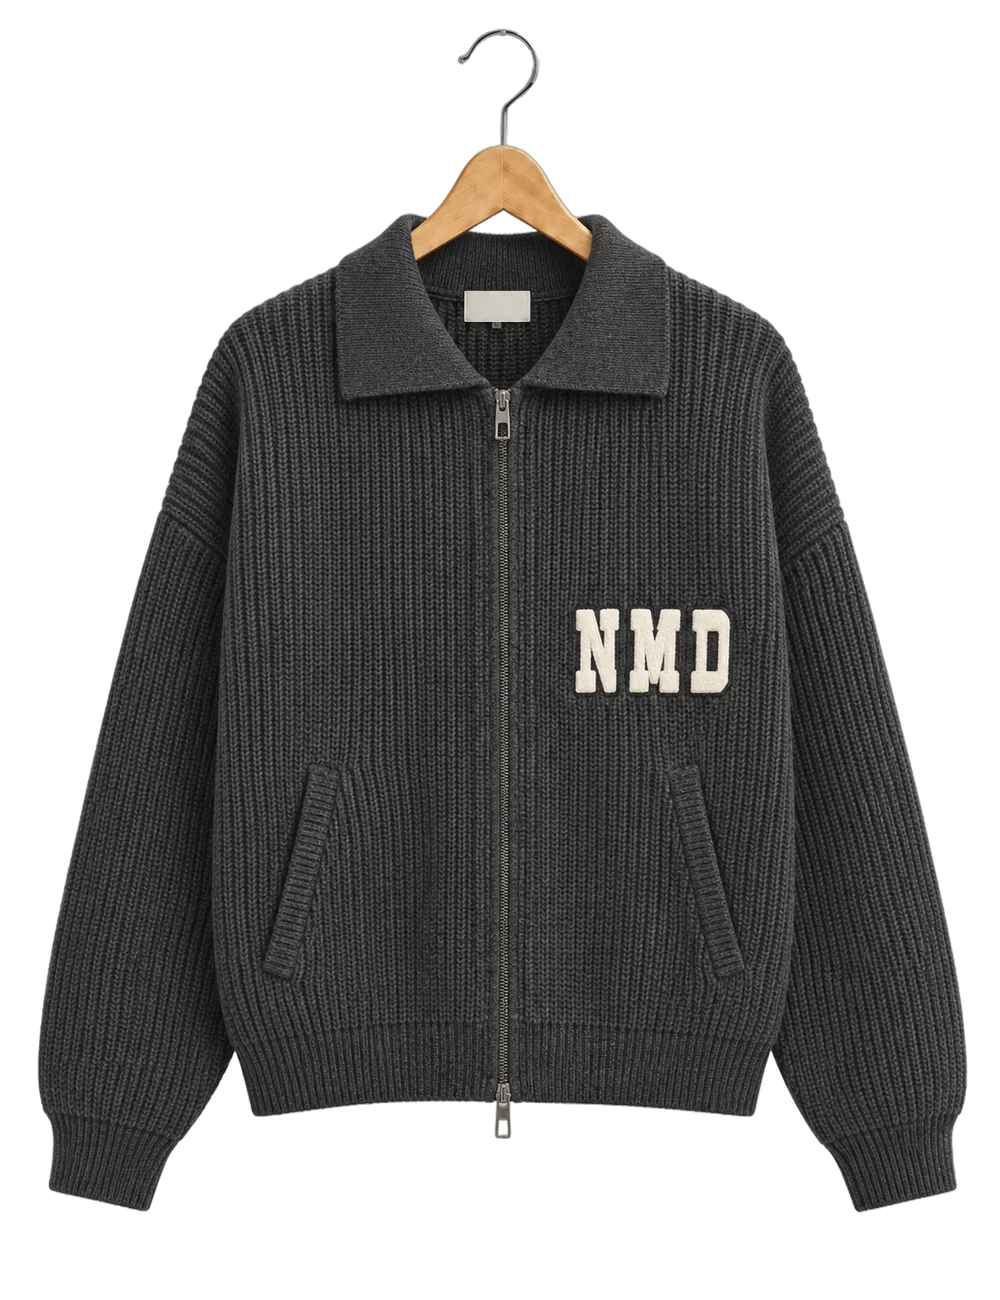
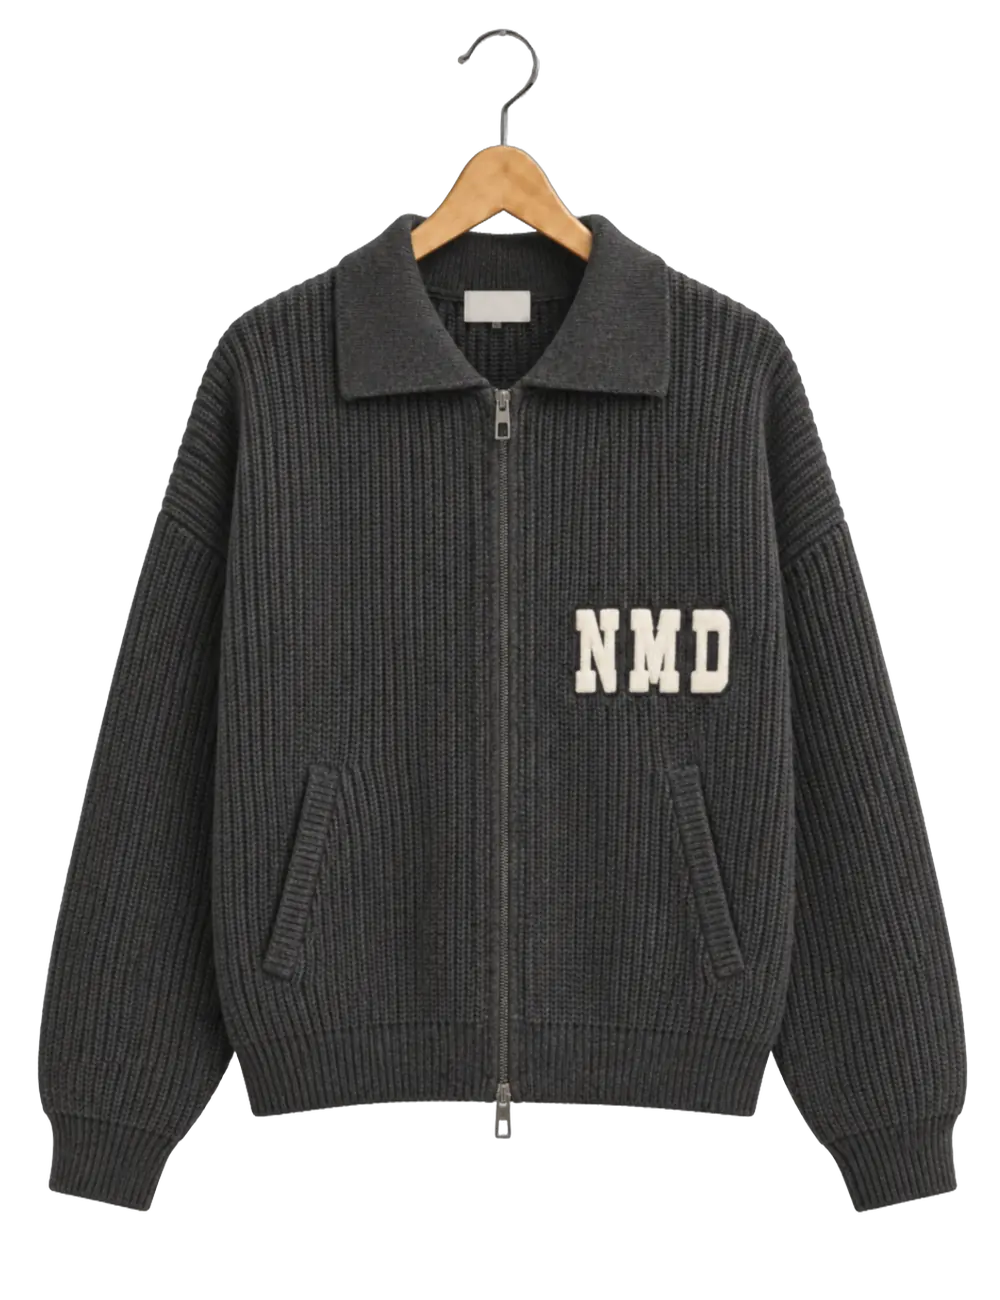
Punto grueso: suavizado y calidad por prenda para que la chamarra no pase el límite de peso
Claude-Session: https://claude.ai/code/session_01MAyo22dyL4XR5G33iWNR8Q

Changed region(s): [[0.496, 0.3077, 0.527, 0.8308], [0.589, 0.4615, 0.62, 0.5231], [0.651, 0.4615, 0.682, 0.4923]]

diff --git a/tools/procesar_assets.py b/tools/procesar_assets.py
@@ -138,13 +138,27 @@ def main():
             _, t, b = hook_anchor(arr[:, :, 3])
             return place(arr, height / (b - t))
 
+        # Telas con textura muy fina (punto grueso) pesan el doble en WebP: un
+        # suavizado leve ("suavizado", radio en px) y "calidad" las dejan en el
+        # peso de las demás sin que se note al tamaño en que se muestran.
+        blur = item.get("suavizado", 0)
+        quality = item.get("calidad", 86)
+
+        def save(canvas, path):
+            if blur:
+                from PIL import ImageFilter
+                alpha = canvas.getchannel("A")
+                canvas = canvas.convert("RGB").filter(ImageFilter.GaussianBlur(blur)).convert("RGBA")
+                canvas.putalpha(alpha)
+            canvas.save(path, "WEBP", quality=quality, method=6)
+
         front = placed(cutouts[0])
         frames = []
         for angle, arr in cutouts.items():
             canvas = front if angle == 0 else placed(arr)
             if angle not in (0, 80):
                 canvas = match_color(canvas, front)
-            canvas.save(out_dir / f"{angle}.webp", "WEBP", quality=86, method=6)
+            save(canvas, out_dir / f"{angle}.webp")
             left, right = extent(canvas)
             frames.append({"angle": angle, "src": f"prendas/{item_id}/{angle}.webp", "left": left, "right": right})
             print(item_id, angle, "ok", left, right)
@@ -159,7 +173,7 @@ def main():
         back_src = ROOT / "assets/raw" / f"{item_id}-back.png"
         if back_src.exists():
             back = placed(cutout(back_src, session))
-            back.save(out_dir / "back.webp", "WEBP", quality=86, method=6)
+            save(back, out_dir / "back.webp")
             entry["back"] = f"prendas/{item_id}/back.webp"
             print(item_id, "espalda ok")
         items.append(entry)
